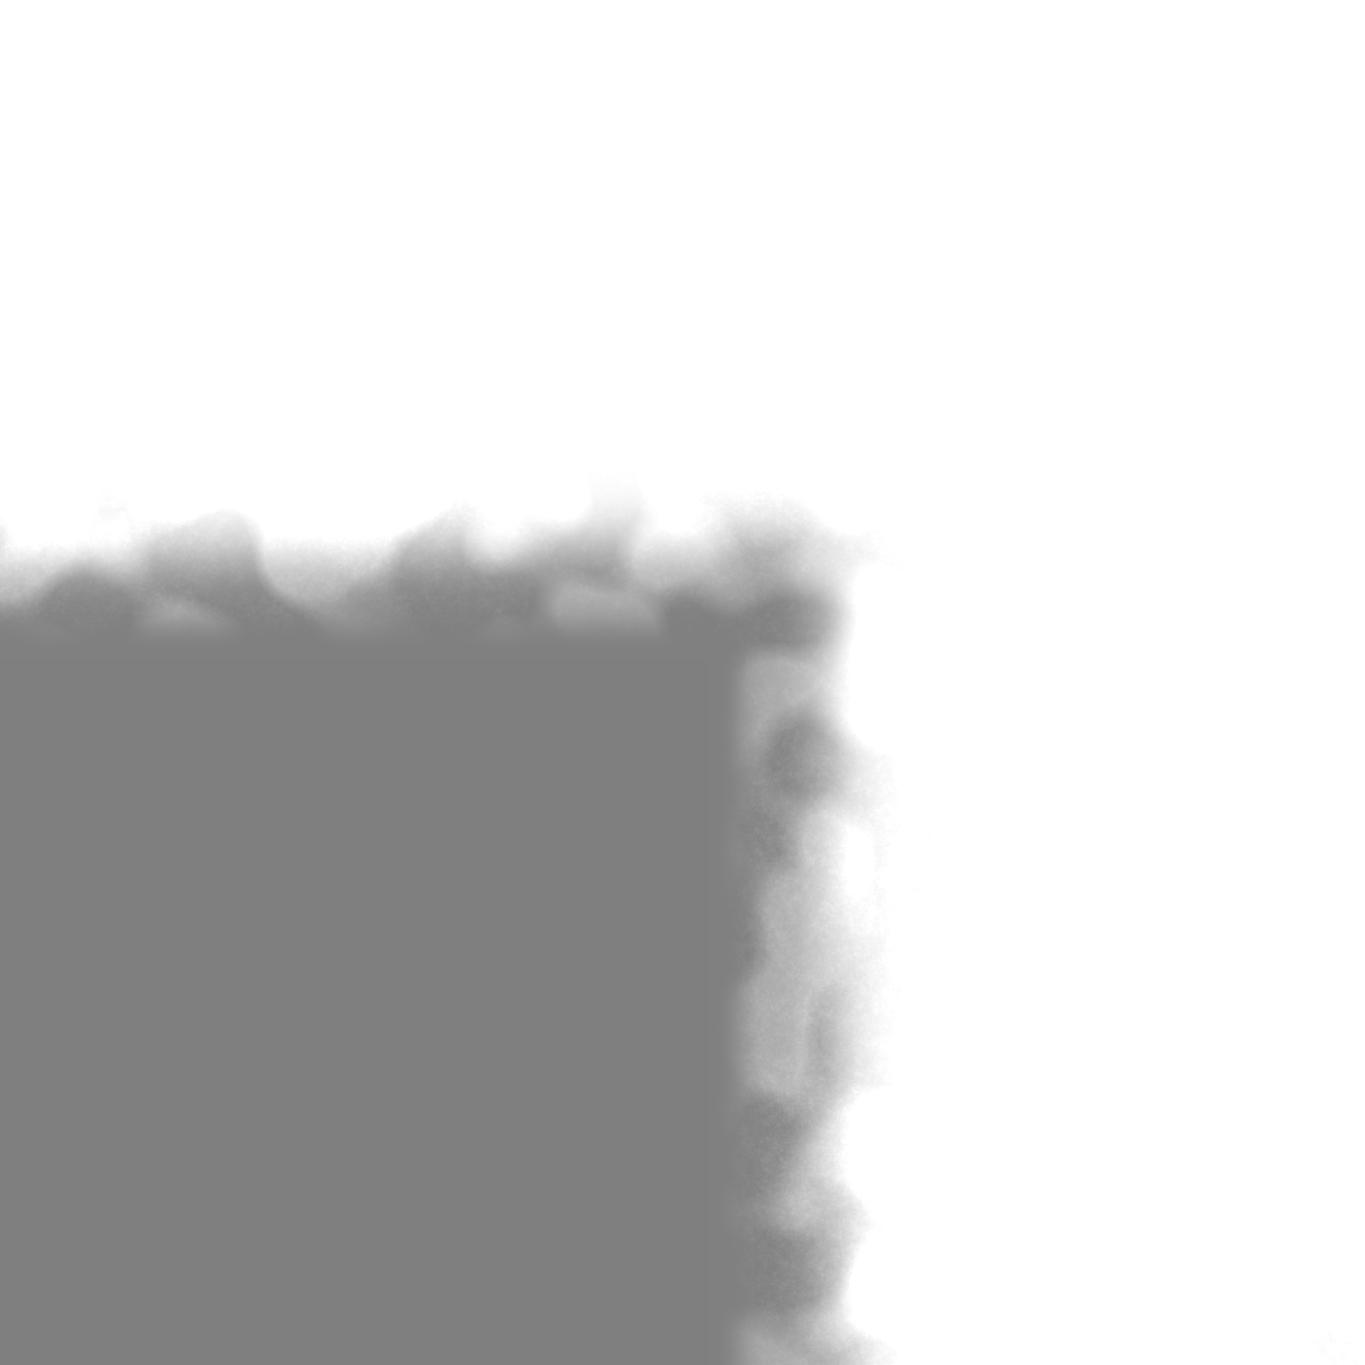
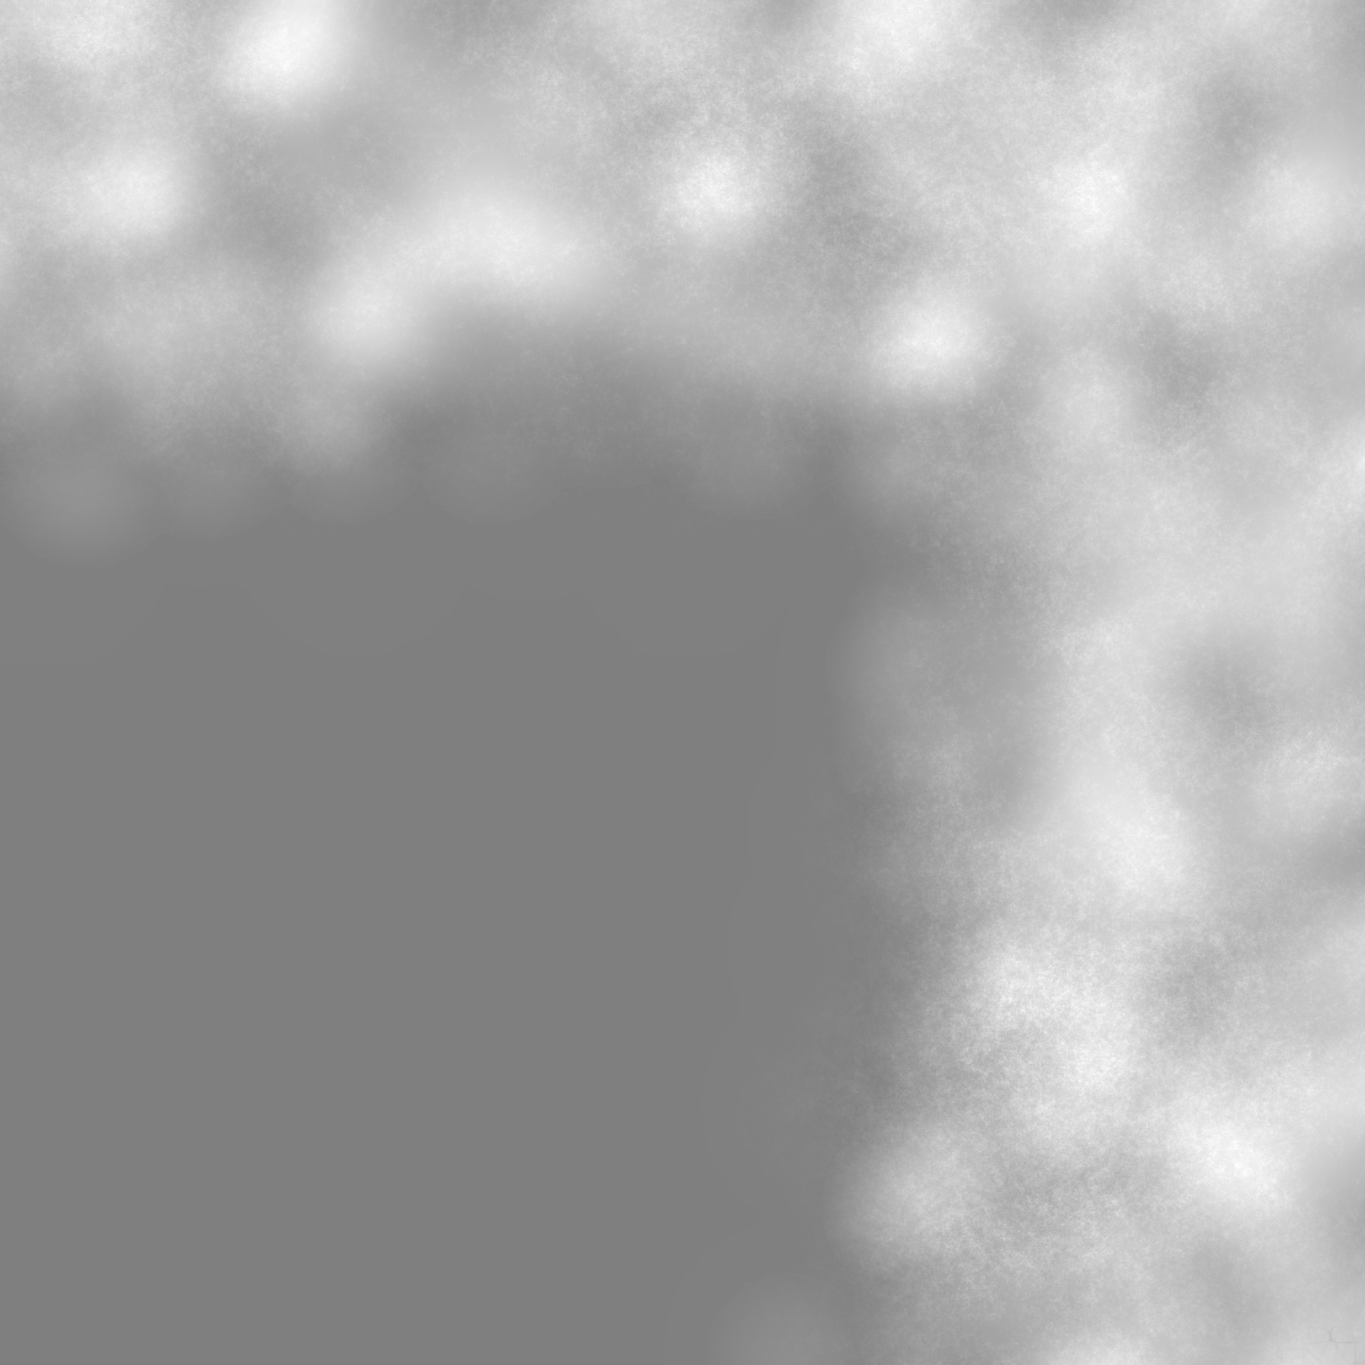
feat: update game colors

diff --git a/src/Scene/Scene.tsx b/src/Scene/Scene.tsx
@@ -47,17 +47,17 @@ const Scene = React.memo(function Scene() {
     }, [eventsNode.current])
 
     const data = useControls('GL', {
-        exposure: { value: 0.9, min: 0, max: 10 },
+        exposure: { value: 0, min: -5, max: 5 },
         toneMapping: {
             options: {
+                'linear': THREE.LinearToneMapping,
                 'filmic': THREE.ACESFilmicToneMapping,
                 'notone': THREE.NoToneMapping,
-                'linear': THREE.LinearToneMapping,
                 'reinhard': THREE.ReinhardToneMapping,
                 'cineon': THREE.CineonToneMapping
             },
         },
-        legacyLights: { value: true },
+        legacyLights: { value: false },
         encoding: {
             options: {
                 'rgb': THREE.sRGBEncoding,
@@ -66,12 +66,8 @@ const Scene = React.memo(function Scene() {
         }
     })
 
-    const dev = useControls('Camera', {
-        freeCamera: false
-    })
-    React.useEffect(() => {
-        setDevMode(dev.freeCamera)
-    }, [dev])
+    const dev = useControls('Camera', { freeCamera: false })
+    React.useEffect(() => void setDevMode(dev.freeCamera), [dev])
     
 
     return (
@@ -82,7 +78,7 @@ const Scene = React.memo(function Scene() {
                     powerPreference: "high-performance",
                     alpha: false,
                     antialias: true,
-                    toneMappingExposure: data.exposure,
+                    toneMappingExposure: Math.pow(2, data.exposure),
                     // toneMapping: THREE.LinearToneMapping,
                     toneMapping: data.toneMapping,
                     useLegacyLights: data.legacyLights,

diff --git a/src/Scene/Light.tsx b/src/Scene/Light.tsx
@@ -37,18 +37,23 @@ const Light = React.memo(function Light() {
         intenHemi: { value: .3, min: 0, max: 2 },
 
         colorDirectional: { value: '#FFFFFF' },
-        intenDirectional: { value: 0.3, min: 0, max: 5 },
-        posDirectional: { value: { x: 0, y: 10, z: 5 } }
+        intenDirectional: { value: 2.5, min: 0, max: 5 },
+        posDirectional: { value: { x: 1, y: 0, z: 0.866 } },
+
+        colorShadow: { value: '#FFFFFF' },
+        intenShadow: { value: 0.3, min: 0, max: 5 },
+        posShadow: { value: { x: 0, y: 10, z: 5 } },
     })
-    const lightPositionTest = React.useMemo(() => new THREE.Vector3(data.posDirectional.x, data.posDirectional.y, data.posDirectional.z), [data])
+    const lightPositionTest = React.useMemo(() => new THREE.Vector3(data.posShadow.x, data.posShadow.y, data.posShadow.z), [data])
 
     return (
         <group name="light">
             {/* <hemisphereLight args={[data.colorGround, data.colorSky]} intensity={data.intenHemi} /> */}
             <ambientLight color={data.colorHemi} intensity={data.intenHemi} />
+            <directionalLight color={data.colorDirectional} intensity={data.intenDirectional} position={[data.posDirectional.x,data.posDirectional.y,data.posDirectional.z]}/>
             <directionalLight 
-                intensity={data.intenDirectional}
-                color={data.colorDirectional} 
+                intensity={data.intenShadow}
+                color={data.colorShadow} 
                 ref={shadowlightRef}
                 castShadow
                 shadow-mapSize-width={2048}

diff --git a/src/Scene/Chunks/Chunks.tsx b/src/Scene/Chunks/Chunks.tsx
@@ -116,9 +116,9 @@ const Chunks = memo(function Chunks({}) {
             </group>
             { devMode ? (
                 <group>
-                    <Plane args={[worldSize+chunkSize, worldSize+chunkSize]} rotation={[Math.PI / -2, 0, 0]} position={[0,-0.1,0]}>
+                    {/* <Plane args={[worldSize+chunkSize, worldSize+chunkSize]} rotation={[Math.PI / -2, 0, 0]} position={[0,-0.1,0]}>
                         <meshBasicMaterial color={'white'} {...mapPlaceholder} depthWrite={false} />
-                    </Plane>
+                    </Plane> */}
                     <gridHelper ref={gridHelper} args={[sizeX, sizeY, 'red', 'red']} rotation={[0, 0, 0]} />
                 </group>
             ): <></> }
@@ -137,7 +137,7 @@ const SwapChunk = forwardRef(({ geometry, index }: SwapChunkProps, ref: any) => 
             rotation={[Math.PI / -2, 0, 0]}
             geometry={geometry}
         >
-            <meshStandardMaterial displacementScale={8} displacementBias={-4} />
+            <meshStandardMaterial displacementScale={20} displacementBias={-10} />
         </mesh>
     )
 })
